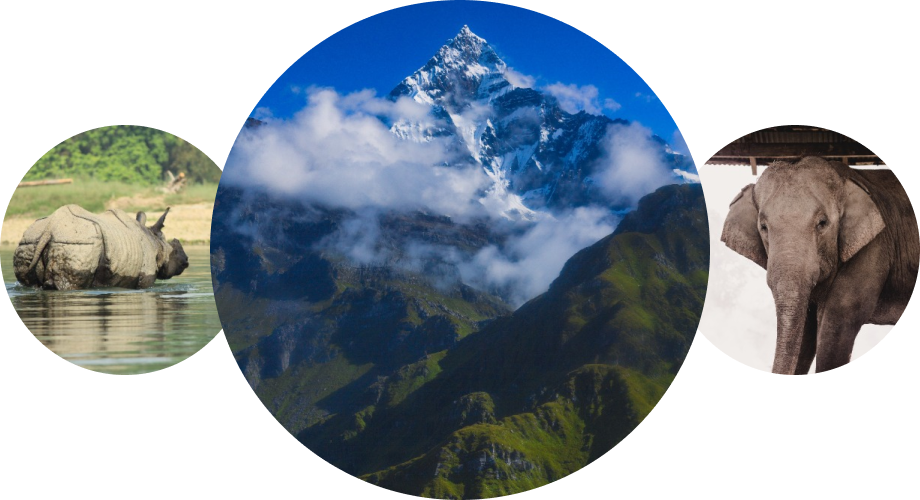
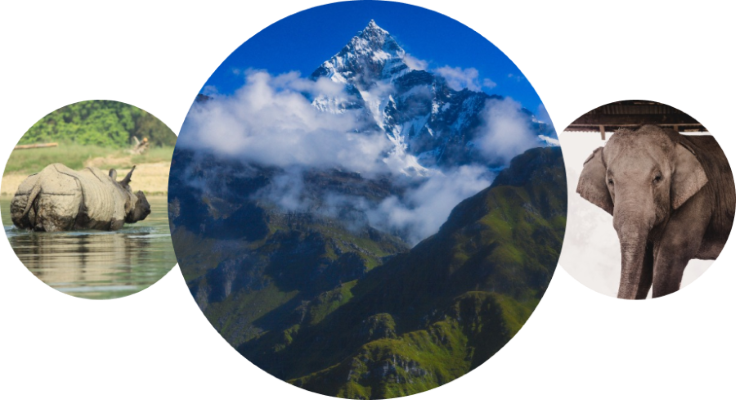
images optimized, SEO optimized

diff --git a/public/api/layout.html b/public/api/layout.html
@@ -155,15 +155,15 @@
         <td rowspan="5"></td>
         <td colspan="2" rowspan="5">
           <div class="d-flex flex-column justify-content-between h-100">
-            <div class="stall stall__diamond flex-column">
+            <div class="stall stall__gold flex-column">
               <div class="stall__label" data-stall-name="A49">A49</div>
-              <div class="stall__size">6 x 10</div>
-              <div class="stall__type">Diamond</div>
+              <div class="stall__size">6 x 7.5</div>
+              <div class="stall__type">Gold</div>
             </div>
-            <div class="stall stall__silver flex-column">
+            <div class="stall stall__gold flex-column">
               <div class="stall__label" data-stall-name="A50">A50</div>
-              <div class="stall__size">6 x 5</div>
-              <div class="stall__type">Silver</div>
+              <div class="stall__size">6 x 7.5</div>
+              <div class="stall__type">Gold</div>
             </div>
           </div>
         </td>
@@ -1168,18 +1168,13 @@
           </div>
         </td>
         <td colspan="2" rowspan="5">
-          <div class="stall stall__silver flex-column">
+          <div class="stall stall__diamond flex-column">
             <div class="stall__label" data-stall-name="C55">C55</div>
-            <div class="stall__size">6 x 5</div>
-            <div class="stall__type">Silver</div>
+            <div class="stall__size">6 x 10</div>
+            <div class="stall__type">Diamond</div>
           </div>
           <div class="stall stall__silver flex-column">
             <div class="stall__label" data-stall-name="C56">C56</div>
-            <div class="stall__size">6 x 5</div>
-            <div class="stall__type">Silver</div>
-          </div>
-          <div class="stall stall__silver flex-column">
-            <div class="stall__label" data-stall-name="C57">C57</div>
             <div class="stall__size">6 x 5</div>
             <div class="stall__type">Silver</div>
           </div>

diff --git a/public/style.css b/public/style.css
@@ -167,7 +167,7 @@ body {
 .circular-images-section {
   padding: 80px 0px;
   padding-top: 200px;
-  background: url("images/circular-img-bg.png");
+  background: url("images/circular-img-bg.jpg");
   background-repeat: no-repeat;
   background-size: cover;
 }
@@ -280,7 +280,7 @@ body {
 }
 
 .why-visit {
-  background-image: url("images/why-visit-bg.png"); /* Replace 'your-image.jpg' with the path to your image */
+  background-image: url("images/why-visit-bg.jpg"); /* Replace 'your-image.jpg' with the path to your image */
   background-size: cover; /* This scales the image to cover the entire div */
   background-repeat: no-repeat; /* Prevents the image from repeating */
   width: 100%; /* Set the width of the div */
@@ -536,7 +536,7 @@ body {
   justify-content: center;
   align-items: center;
   text-align: center;
-  background: url("images/about-us-bg.png");
+  background: url("images/about-us-bg.jpg");
   background-repeat: no-repeat;
   background-size: cover;
 }
@@ -556,7 +556,7 @@ body {
 }
 
 .organizers-bg {
-  background: url("images/organizers-bg.png");
+  background: url("images/organizers-bg.jpg");
   background-repeat: no-repeat;
   background-size: cover;
   background-position: center;
@@ -1102,16 +1102,16 @@ body {
   background: #8dc63f;
 }
 .floor-section .floor-selection .category-box .diamond {
-  background: #b3b0d9;
+  background: #f9cbdf;
 }
 .floor-section .floor-selection .category-box .gold {
-  background: #4abfd9;
+  background: #7acdc8;
 }
 .floor-section .floor-selection .category-box .silver {
-  background: #f391bc;
+  background: #f6989d;
 }
 .floor-section .floor-selection .category-box .international {
-  background: #e5d44c;
+  background: #cbc26b;
 }
 .floor-section .floor-selection .category-box .vendor {
   background: #c3c4c6;

diff --git a/public/style.scss b/public/style.scss
@@ -183,7 +183,7 @@ body {
   // margin-top: 180px;
   padding: 80px 0px;
   padding-top: 200px;
-  background: url("images/circular-img-bg.png");
+  background: url("images/circular-img-bg.jpg");
 
   // background: linear-gradient(0deg, rgba(228, 228, 232, 0.1) 0%, rgba(228, 228, 232, 0.1) 100%),
   //   url("images/circular-img-bg.png"), #f5f5f5;
@@ -303,7 +303,7 @@ body {
 }
 
 .why-visit {
-  background-image: url("images/why-visit-bg.png"); /* Replace 'your-image.jpg' with the path to your image */
+  background-image: url("images/why-visit-bg.jpg"); /* Replace 'your-image.jpg' with the path to your image */
   background-size: cover; /* This scales the image to cover the entire div */
   background-repeat: no-repeat; /* Prevents the image from repeating */
   width: 100%; /* Set the width of the div */
@@ -587,7 +587,7 @@ body {
   justify-content: center;
   align-items: center;
   text-align: center;
-  background: url("images/about-us-bg.png");
+  background: url("images/about-us-bg.jpg");
   background-repeat: no-repeat;
   background-size: cover;
 
@@ -607,7 +607,7 @@ body {
   }
 }
 .organizers-bg {
-  background: url("images/organizers-bg.png");
+  background: url("images/organizers-bg.jpg");
   background-repeat: no-repeat;
   background-size: cover;
   background-position: center;
@@ -1218,18 +1218,18 @@ body {
         background: #8dc63f;
       }
       .diamond {
-        background: #b3b0d9;
+        background: #f9cbdf;
       }
 
       .gold {
-        background: #4abfd9;
+        background: #7acdc8;
       }
       .silver {
-        background: #f391bc;
+        background: #f6989d;
       }
 
       .international {
-        background: #e5d44c;
+        background: #cbc26b;
       }
 
       .vendor {

diff --git a/public/pages/home.php b/public/pages/home.php
@@ -24,7 +24,7 @@
   <section class="circular-images-section">
     <div class="container text-center circular-images-section-body">
       <div class="circular-photos">
-        <img src="images/circular-img.png" class="circular-center-image h-100" />
+        <img src="images/circular-img.png" class="circular-center-image h-100" alt="" />
       </div>
       <div class="expo-2024">
         <div class="text-center expo-2024-title">Visit Nepal Pharma Expo 2024</div>
@@ -44,7 +44,7 @@
     <div class="container">
       <div class="row">
         <div class="col-md-5">
-          <img src="images/message-form.png" class="w-100 h-100">
+          <img src="images/message-form.png" class="w-100 h-100" alt="">
         </div>
         <div class="col-md-7">
           <div class="message-form-title ps-2">Message From</div>
@@ -154,7 +154,7 @@
         </div>
         <div class="col-md-6 text-center d-flex justify-content-center">
           <div class="why-visit-img">
-            <img src="images/why-visit.png" alt="why-visit-img" class="w-100 h-100" />
+            <img src="images/why-visit.jpg" alt="why-visit-img" class="w-100 h-100" />
           </div>
         </div>
       </div>

diff --git a/public/pages/tags/organizors-sponsors.php b/public/pages/tags/organizors-sponsors.php
@@ -187,6 +187,16 @@
                         </div>
                     </div>
                 </div>
+                <div class="col-md">
+                    <div class="sponsors">
+                        <div class="sponsor-img  diamond-sponsor-img">
+                            <img src="images/diamond-sponsor1.jpg" alt="" />
+                        </div>
+                        <div class="sponsor-name">
+                            <div>Pacific commercial company</div>
+                        </div>
+                    </div>
+                </div>
             </div>
         </div>
         <div class="gold-sponsor">

diff --git a/public/pages/exhibitors-detail.php b/public/pages/exhibitors-detail.php
@@ -40,7 +40,7 @@
       <div class="row">
         <div class="col-md-6">
           <div class="exhibitors-detail-box">
-            <img src="images/exhibitors-detail.png" alt="exhibitors-detail" class="w-100 h-100 object-fit-cover" />
+            <img src="images/exhibitors-detail.jpg" alt="exhibitors-detail" class="w-100 h-100 object-fit-cover" />
           </div>
         </div>
         <div class="col-md-6 exhibitors-detail-desc">

diff --git a/public/pages/tags/home-hero.php b/public/pages/tags/home-hero.php
@@ -1,6 +1,6 @@
 <section class="hero-section position-relative">
   <div class="home-hero-image">
-    <img src="images/background.png" alt="Hero Image" class="w-100 h-100" />
+    <img src="images/background.jpg" alt="Hero Image" class="w-100 h-100" />
   </div>
 
   <div class=" position-absolute d-flex align-items-center justify-content-center join-expo-container">
